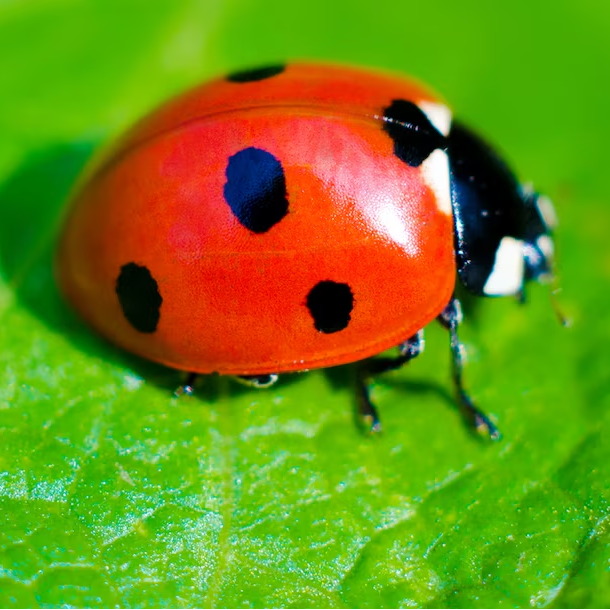
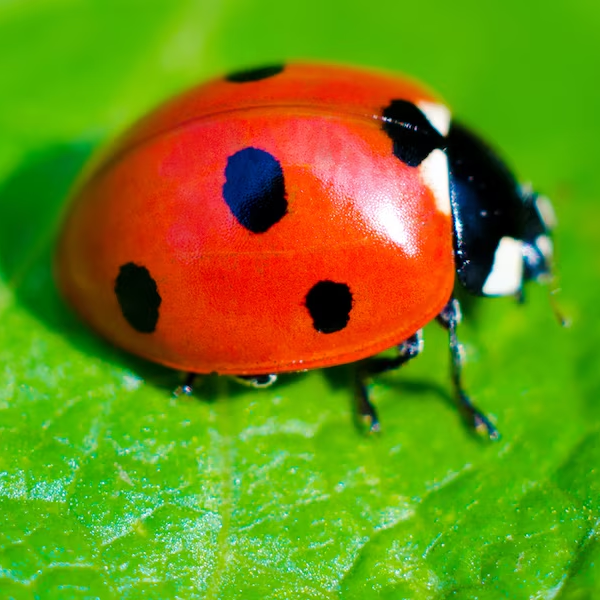
Improved visual appearance of buttons and bordered images

diff --git a/styles.css b/styles.css
@@ -46,6 +46,7 @@ table, td{
 a{
     font-size: 40px;
     color: rgb(191, 191, 255);
+    background-color: rgb(255, 255, 255);
     text-decoration: none;
     transition: color 0.25s ease-out;
 }
@@ -73,11 +74,11 @@ a:hover{
     margin: 10px;
     align-items: center;
     justify-self: center;
+    border: 4px solid rgb(191, 191, 255);
 }
 
 .InputLocation{
     color: rgb(191, 191, 255);
-    border: 2px solid rgb(191, 191, 255);
     position: fixed;
     bottom: 70px;
     justify-self: center;
@@ -86,10 +87,20 @@ a:hover{
 button{
     width: 200px;
     height: 100px;
+    font-family: DynaPuff;
     font-size: 50px;
+    color: rgb(191, 191, 255);
+    background-color: rgb(255, 255, 255);
+    border: 2px solid rgb(191, 191, 255);
+    transition: color 0.25s ease-out;
+}
+
+button:hover{
+    color: rgb(127, 127, 255);
 }
 
 #startButton{
-    width: 600px;
-    height: 600px;
+    width: 592px;
+    height: 592px;
+    border: none;
 }

diff --git a/main.js b/main.js
@@ -1,5 +1,5 @@
-const IMGWIDTH = 600;
-const IMGHEIGHT = 600;
+const IMGWIDTH = 592;
+const IMGHEIGHT = 592;
 
 const startButton = document.getElementById("startButton");
 let image;